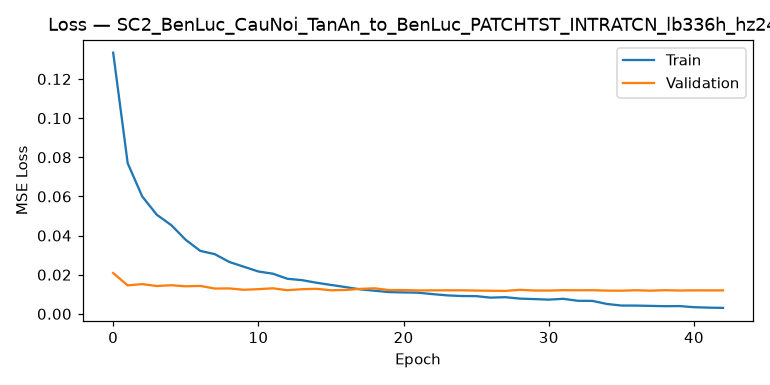
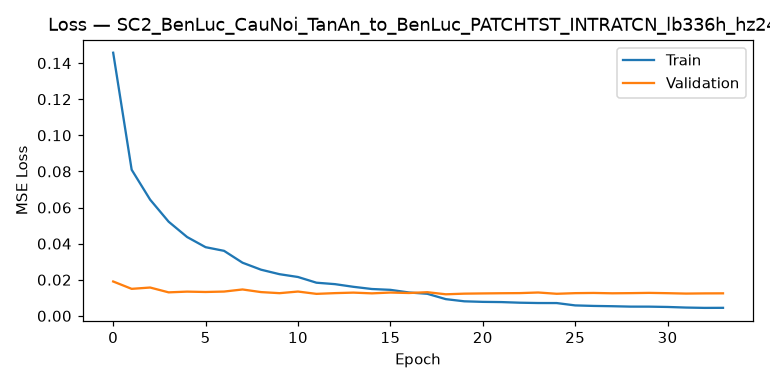
First testing token-mixing MLP sucessfully

diff --git a/src_code/patchTST_Intra.py b/src_code/patchTST_Intra.py
@@ -170,6 +170,68 @@ class InterPatchBlock(nn.Module):
 
 
 # --------------------------------------------------------------------------
+# HƯỚNG 3 — Inter-patch bằng TOKEN-MIXING (MLP-Mixer) thay cho self-attention.
+# Giữ ĐÚNG interface của InterPatchBlock:
+#     Vào (B*, P, S, in_ch)  ->  Ra (B*, P, d_model)
+#
+# Ý tưởng: embed mỗi patch -> 1 token d_model (y hệt InterPatchBlock), rồi
+# TRỘN GIỮA P patch bằng một MLP TĨNH trên trục patch (token-mixing) thay vì
+# attention động. Hợp lý khi quan hệ giữa các patch ổn định theo vị trí/pha
+# triều (không biến động theo nội dung như trong NLP).
+#
+#   token-mixing : ma trận trộn P x P cố định, học được  (RẺ: ~2*P*hidden)
+#   channel_mix  : (tuỳ chọn) thêm MLP trộn trục đặc trưng d, kiểu Mixer đầy đủ.
+#                  Mặc định TẮT, vì channel-mixing đã được FFN ở nơi khác lo.
+# --------------------------------------------------------------------------
+class InterPatchMixerBlock(nn.Module):
+    def __init__(self, d_model, patch_len, num_patch, in_ch=1,
+                 n_layers=1, token_hidden=None, channel_mix=False,
+                 channel_hidden=None, dropout=0.1, **kwargs):
+        super().__init__()
+        self.embed = nn.Linear(patch_len * in_ch, d_model)
+        self.pos = nn.Parameter(torch.randn(1, num_patch, d_model) * 0.02)
+        token_hidden = token_hidden or max(num_patch * 2, 16)
+        channel_hidden = channel_hidden or d_model * 2
+        self.channel_mix = channel_mix
+
+        self.token_norms = nn.ModuleList()
+        self.token_mlps = nn.ModuleList()
+        self.chan_norms = nn.ModuleList() if channel_mix else None
+        self.chan_mlps = nn.ModuleList() if channel_mix else None
+        for _ in range(n_layers):
+            self.token_norms.append(nn.LayerNorm(d_model))
+            # token-MLP hoạt động TRÊN TRỤC P (num_patch): P -> hidden -> P
+            self.token_mlps.append(nn.Sequential(
+                nn.Linear(num_patch, token_hidden), nn.GELU(),
+                nn.Dropout(dropout), nn.Linear(token_hidden, num_patch),
+                nn.Dropout(dropout)))
+            if channel_mix:
+                self.chan_norms.append(nn.LayerNorm(d_model))
+                self.chan_mlps.append(nn.Sequential(
+                    nn.Linear(d_model, channel_hidden), nn.GELU(),
+                    nn.Dropout(dropout), nn.Linear(channel_hidden, d_model),
+                    nn.Dropout(dropout)))
+
+    def forward(self, patches):                    # (B*, P, S, in_ch)
+        B_, P, S, ic = patches.shape
+        x = self.embed(patches.reshape(B_, P, S * ic))        # (B*, P, d)
+        x = x + self.pos
+        for i in range(len(self.token_mlps)):
+            # --- token-mixing: trộn dọc trục P (giữa các patch) ---
+            y = self.token_norms[i](x)             # (B*, P, d)
+            y = y.transpose(1, 2)                  # (B*, d, P)  MLP chạy trên P
+            y = self.token_mlps[i](y)              # (B*, d, P)
+            y = y.transpose(1, 2)                  # (B*, P, d)
+            x = x + y                              # residual
+            # --- channel-mixing (tuỳ chọn): trộn trục đặc trưng d ---
+            if self.channel_mix:
+                y = self.chan_norms[i](x)
+                y = self.chan_mlps[i](y)           # (B*, P, d) MLP chạy trên d
+                x = x + y                          # residual
+        return x                                   # (B*, P, d_model)
+
+
+# --------------------------------------------------------------------------
 # HƯỚNG 2 — Cross-attention bất đối xứng tầm xa.
 # Mỗi patch phát k query (phái sinh nội dung) đọc TOÀN BỘ L=P*S điểm ở độ
 # phân giải điểm, rồi rót ngược ngữ cảnh về từng điểm. Chi phí O(P*k*L)
@@ -237,6 +299,9 @@ class PatchTST_IntraTCN(nn.Module):
                  n_queries=4,              # số query mỗi patch cho khối tầm xa
                  tcn_levels=2, dropout=0.1,
                  inter_layers=None,        # số lớp inter-patch; None -> dùng n_layers
+                 inter_mode="attn",        # HƯỚNG 3: "attn" (gốc) | "mixer" (token-mixing)
+                 inter_channel_mix=False,  # chỉ dùng khi inter_mode="mixer"
+                 inter_token_hidden=None,  # hidden cho token-MLP (None -> 2*P)
                  use_future=False, **kwargs):
         super().__init__()
         self.input_size = input_size
@@ -265,10 +330,19 @@ class PatchTST_IntraTCN(nn.Module):
         self.intra = IntraPatchBlock(d_model, patch_len, intra_mode=intra_mode,
                                      in_ch=block_in_ch, n_heads=n_heads,
                                      tcn_levels=tcn_levels, dropout=dropout)
-        self.inter = InterPatchBlock(d_model, patch_len, P, in_ch=block_in_ch,
-                                     n_heads=n_heads,
-                                     n_layers=(inter_layers if inter_layers is not None else n_layers),
-                                     dropout=dropout)
+        _inter_L = inter_layers if inter_layers is not None else n_layers
+        if inter_mode == "attn":
+            self.inter = InterPatchBlock(d_model, patch_len, P, in_ch=block_in_ch,
+                                         n_heads=n_heads, n_layers=_inter_L,
+                                         dropout=dropout)
+        elif inter_mode == "mixer":
+            self.inter = InterPatchMixerBlock(d_model, patch_len, P, in_ch=block_in_ch,
+                                              n_layers=_inter_L,
+                                              token_hidden=inter_token_hidden,
+                                              channel_mix=inter_channel_mix,
+                                              dropout=dropout)
+        else:
+            raise ValueError(f"inter_mode không hợp lệ: {inter_mode}")
         self.fuse_norm = nn.LayerNorm(d_model)
 
         # HƯỚNG 2: khối cross-attention tầm xa (đặt sau fuse, trước pool)
